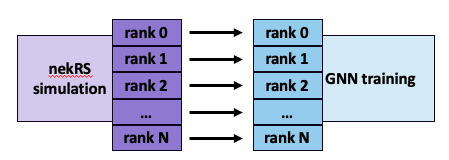
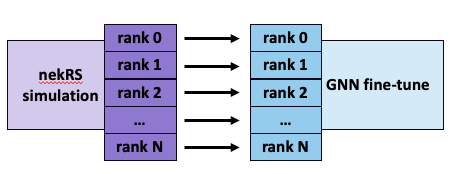
Update nekRS-ML images

Changed region(s): [[0.0, 0.0938, 0.9978, 0.9688]]

diff --git a/nekRS-ML/README.md b/nekRS-ML/README.md
@@ -11,9 +11,11 @@ The workflow is composed of the following two stages, run one after the other as
 * **Online fine-tuning of the GNN surrogate** This step runs a high-fidelity CFD simulation with the nekRS code and GNN distributed training cuncurrently on the system, streaming training data from the simulation to the trainer at a constant interval.
 * **Solution shooting with ML surrogate** This step deploys the GNN surrogate for inference, starting from a solution checkpoint as initial condition and then rolling out the surrogate by feeding the model predictions back as inputs for the next iteration in order to advance the solution state in time.
 
+<center>
 | ![](figures/workflow.png) | 
 |:--:| 
 | *Figure 1. Schematic of the solution shooting workflow.* |
+</center>
 
 The workflow is made up of the following two components:
 
@@ -26,10 +28,11 @@ The workflow is implemented using [ADIOS2](https://github.com/ornladios/ADIOS2) 
 * **training data:** The GNN training data consists of two time steps of the three components of the velocity vector at every mesh grid point (thus at every graph node). Specifically, the input is the solution field at time *t*, *u(t)*, and the output is the the solution at a later time, *u(t+dt)*. This data is streamed between nekRS and GNN training through the ADIOS2 SST engine making use of the system interconnect when scaling up to multiple nodes. Transfer of the training data *is* included in the FOM measurements. Currently, there is a 1-1 relationship between nekRS mesh partitions and GNN sub-graphs, meaning that nekRS and GNN training both run on N MPI ranks. Thus, the training data is transferred in a N-N pattern as shown in Figure 2.  
 * **solution checkpoint:** At the end of fine-tuning, nekRS writes a solution checkpoint in order for GNN inference to advance the solution from where the simulation left off. The checkpoint is written to the file system and any I/O with this data *is not* included in FOM measurements.
 
+<center>
 | ![](figures/data_streaming.png) | 
 |:--:| 
 | *Figure 2. Schematic of the training data transfer between nekRS and GNN training ranks. Note that the ordered pairing of simulation and training ranks (i.e., rank 0 of nekRS sending data to rank 0 of GNN training) shown in the diagram is not enforced in the benchmark.* |
-
+</center>
 
 ## Main system components targeted
 
